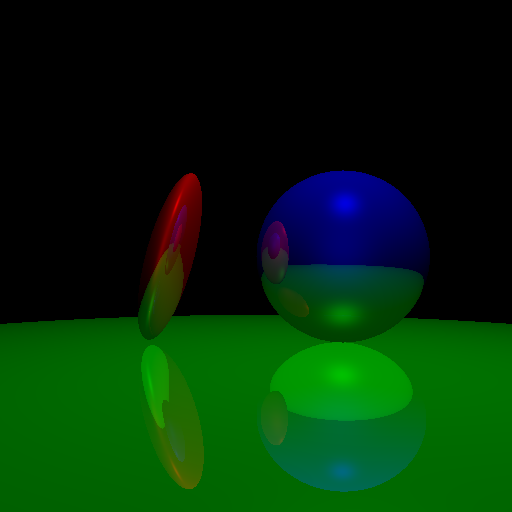
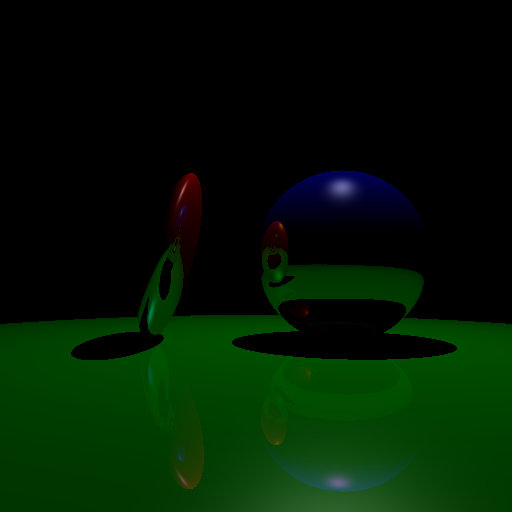
WIP: experimenting with different ways to factor in light from reflected energy.

diff --git a/src/main.rs b/src/main.rs
@@ -52,11 +52,11 @@ fn main() {
     sph3.set_transform(&transform);
     scene.add_shape(Box::new(sph3));
 
-    let light = PointLight::new(Point3::new(1., 4.0, -2.), Color::new(1., 1., 1.));
+    let light = PointLight::new(Point3::new(1., 4.0, 0.), Color::new(1., 1., 1.));
     scene.add_light(Box::new(light));
 
-    let ambient = AmbientLight::new(&Color::new(0.4, 0.4, 0.4));
-    scene.add_light(Box::new(ambient));
+    let ambient = AmbientLight::new(&Color::new(0.2, 0.2, 0.2));
+    //scene.add_light(Box::new(ambient));
 
     let start = std::time::Instant::now();
     render(&camera, &scene, &mut buffer);
@@ -71,7 +71,7 @@ fn render(camera: &Camera, scene: &Scene, buffer: &mut RenderBuffer) {
     for v in 0..camera.y_res {
         for u in 0..camera.x_res {
             let ray = camera.get_ray(u, v);
-            buffer.buf[u][v] = get_energy(scene, &ray, 2);
+            buffer.buf[u][v] = get_energy(scene, &ray, 4);
         }
     }
 }
@@ -81,9 +81,8 @@ fn get_energy(scene: &Scene, ray: &Ray, reflections: usize) -> Color {
     let diffuse = match hit {
         None => Color::black(),
         Some(i) => {
-            let energy = scene.get_incoming_energy(&i);
-            let color = energy * i.material.color;
-            color
+            scene.get_incoming_energy(&i)
+            //let color = energy * i.material.color;
         }
     };
 
@@ -96,14 +95,14 @@ fn get_energy(scene: &Scene, ray: &Ray, reflections: usize) -> Color {
                 let p = i.point + 0.0002 * i.normal;
                 let reflect_ray = Ray::new(&p, &reflected_dir);
                 // compute incoming energy from the direction of the reflected ray
-                i.material.reflectivity * get_energy(scene, &reflect_ray, reflections - 1)
+                i.material.reflectivity * (Color::white() - i.material.color) * get_energy(scene, &reflect_ray, reflections - 1)
             }
         }
     } else {
         Color::black()
     };
 
-    0.4 * diffuse + 0.8 * reflected
+    0.4 * diffuse + reflected
 }
 
 struct Camera {

diff --git a/src/scene/mod.rs b/src/scene/mod.rs
@@ -125,6 +125,7 @@ pub struct Intersection {
 #[derive(Debug, PartialEq, Copy, Clone)]
 pub struct Material {
     pub color: Color,
+    pub specular_intensity: Color,
     pub reflectivity: f32,
     pub refraction_index: f32,
 }
@@ -133,6 +134,7 @@ impl Material {
     pub fn new(color: &Color, reflectivity: f32, refraction_index: f32) -> Material {
         Material {
             color: *color,
+            specular_intensity: Color::white(),
             reflectivity,
             refraction_index,
         }
@@ -145,8 +147,8 @@ impl Material {
         normal: &Vector3,
         incoming: &Color,
     ) -> Color {
-        let mut total_energy = lambert(&light_dir, &normal, &incoming);
-        total_energy += phong(60., &eye_dir, &light_dir, &normal, &incoming);
+        let mut total_energy = lambert(&light_dir, &normal, &incoming) * self.color;
+        total_energy += phong(60., &eye_dir, &light_dir, &normal, &incoming) * self.specular_intensity;
         total_energy
     }
 }
@@ -185,13 +187,13 @@ impl LightSource for PointLight {
         normal: &Vector3,
     ) -> (Vector3, Color) {
         let dir_to_light = (self.pos - point).norm();
-        /*let ray = Ray::new(&point, &dir_to_light);
+        let ray = Ray::new(&point, &dir_to_light);
         let total_energy = match scene.intersect(&ray) {
             Some(_) => Color::black(),
-            None => dir_to_light.dot(normal) * self.color,
+            None => self.color,
         };
-        total_energy + phong(60., eye_dir, &dir_to_light, normal) * self.color*/
-        (dir_to_light, self.color)
+        //total_energy + phong(60., eye_dir, &dir_to_light, normal) * self.color
+        (dir_to_light, total_energy)
     }
 }
 

diff --git a/src/scene/color.rs b/src/scene/color.rs
@@ -68,6 +68,22 @@ impl std::ops::Add for Color {
     }
 }
 
+impl std::ops::Sub for Color {
+    type Output = Color;
+
+    fn sub(self, rhs: Color) -> Self::Output {
+        let r = self.r - rhs.r;
+        let g = self.g - rhs.g;
+        let b = self.b - rhs.b;
+
+        Color { 
+            r: if r < 0. { 0.} else {r},
+            g: if g < 0. { 0.} else {g},
+            b: if b < 0. { 0.} else {b},
+        }
+    }
+}
+
 impl std::ops::AddAssign for Color {
     fn add_assign(&mut self, rhs: Color) {
         self.r += rhs.r;
